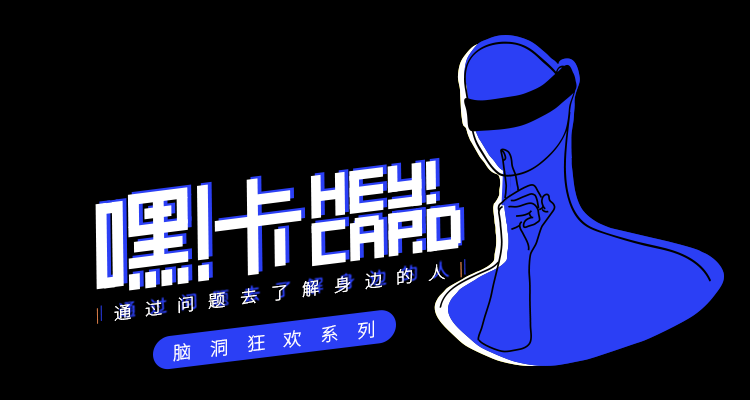
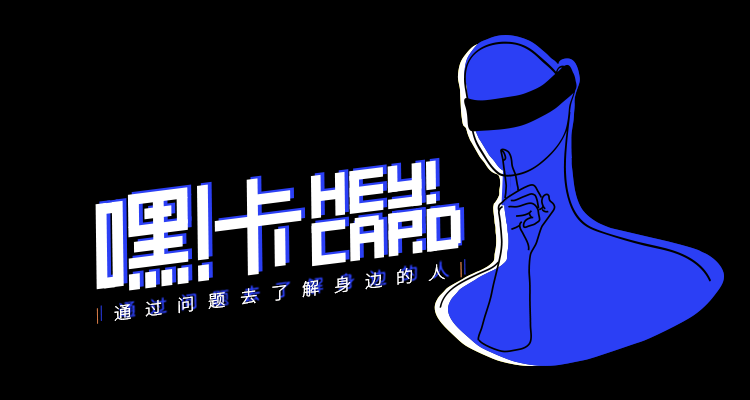
修改卡牌列表标题样式

Changed region(s): [[0.184, 0.75, 0.552, 0.93]]

diff --git a/cpserver/public/hey_card/list.html b/cpserver/public/hey_card/list.html
@@ -53,6 +53,22 @@
             display:block;
         }
 
+        #lbl_cardType_title {
+            width: 13em;
+            color: #FFFFFF;
+            background-color: #2b3ff5;
+            letter-spacing: 1.5em;
+            font-size: 22px;
+            padding: 10px 30px;
+            border-radius: 25px;
+            white-space: nowrap;
+            overflow: hidden;
+            transform: rotate(-7deg);
+            position: absolute;
+            left: 19%;
+            top:24%;
+        }
+
         .swiper-slide {
 
         }
@@ -102,6 +118,8 @@
             display:none;
         }
 
+
+
     </style>
 
     <!--JS-->
@@ -118,6 +136,8 @@
         <!--<img id="img_header" src="static/images/img_list_head.jpg" >-->
         <!--<h2 id="title">三观蹦迪</h2>-->
         <img id="img_cardType_title" src="static/images/img_cardType_title.png" />
+
+        <p id="lbl_cardType_title">脑洞狂欢系列</p>
 
         <div class="swiper-container">
             <div class="swiper-wrapper" id="card_list">
@@ -193,7 +213,7 @@
                         };
                     }
 
-                    $("#title").text(cardType[Tools.getQuery("t_id")].name);
+                    $("#lbl_cardType_title").text(cardType[Tools.getQuery("t_id")].name + "系列");
 
                 }
                 else {
@@ -244,6 +264,15 @@
 
                         str += item;
 
+                    }
+
+                    if(json.data.length % 4 == 1 || json.data.length % 4 == 3 ){
+                        //最后一页到左上角或左下角
+                        str += '</div></div>';
+                    }
+                    else if(json.data.length % 4 == 2 ){
+                        //最后一页到右上角
+                        str += '</div>';
                     }
 
 

diff --git a/cpserver/public/hey_card/list-backup.html b/cpserver/public/hey_card/list-backup.html
@@ -7,7 +7,6 @@
     <!--CSS-->
     <link rel="stylesheet" type="text/css" href="static/css/common.css">
     <link rel="stylesheet" type="text/css" href="static/bootstrap-3.3.7/css/bootstrap.min.css">
-    <link rel="stylesheet" href="https://cdnjs.cloudflare.com/ajax/libs/Swiper/4.x.x/css/swiper.min.css">
 
     <style type="text/css">
         body {
@@ -53,7 +52,6 @@
     <script type="text/javascript" src="static/js/jquery-3.3.1.min.js"></script>
     <script type="text/javascript" src="http://res.wx.qq.com/open/js/jweixin-1.2.0.js"></script>
     <script type="text/javascript" src="static/bootstrap-3.3.7/js/bootstrap.min.js" ></script>
-    <script src="https://cdnjs.cloudflare.com/ajax/libs/Swiper/4.x.x/js/swiper.min.js"></script>
     <script type="text/javascript" src="static/js/global.js"></script>
 
 </head>
